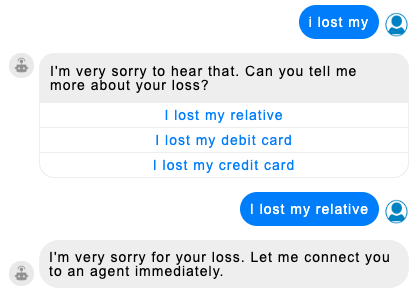
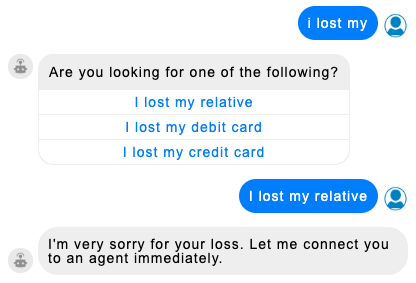
Enh - Disambiguation updates for 2nd round review

diff --git a/pages/documents/ConversationalAI/ConversationBuilder/Dialogs/dialogs_disambiguation.md b/pages/documents/ConversationalAI/ConversationBuilder/Dialogs/dialogs_disambiguation.md
@@ -36,7 +36,7 @@ If you create a disambiguation dialog, and if the bot matches the user's message
 
 A disambiguation dialog is triggered when the bot matches the message to *multiple intents*. Once the disambiguation dialog is triggered, it presents the consumer with the best intent matches.
 
-<img style="width:325px" src="img/ConvoBuilder/dialogs_disambiguation4.png">
+<img style="width:350px" src="img/ConvoBuilder/dialogs_disambiguation4.png">
 
 Once the user selects the correct intent, if that intent is associated with a User Says interaction in one of the bot's dialogs, that dialog's flow begins. Or, in the Disambiguation interaction, you can configure response match conditions to direct the flow as desired.
 
@@ -56,6 +56,11 @@ Once the user selects the correct intent, if that intent is associated with a Us
 5. Click **Save**.
 6. In the Disambiguation interaction, enter the question text to send to the consumer.
     <img style="width:800px" src="img/ConvoBuilder/dialogs_disambiguation5.png">
+
+    The intents will be dynamically populated, and their labels will be drawn from their intent display names as configured in [Intent Builder](intent-builder-overview.html).
+
+    <img style="width:600px" src="img/ConvoBuilder/dialogs_disambiguation6.png">
+
 7. Build out the Disambiguation dialog as desired.
     
     You can add any number of interactions to the dialog. For example, you might want to add a LivePerson Agent Escalation integration.
@@ -71,6 +76,10 @@ If you don't use a disambiguation dialog, here's how things work:
 - If the user's message matches multiple intents that have the same rank (several matches are VERY GOOD, or several are GOOD), the bot picks the one with the highest raw match score, and then it processes the associated dialog.
 
 - During matching, the bot considers only intents that evaluate to a VERY_GOOD or GOOD rank; intents that evaluate to FAIR_PLUS and FAIR are not considered.
+
+**What happens if I use a disambiguation dialog, but no intents at or above the specified threshold are matched?**
+
+When this happens, the fallback dialog is triggered is one exists. Otherwise, the default fallback message is sent to the consumer. For more on fallback, see [here](conversation-builder-dialogs-fallback-dialogs.html).
 
 **How many disambiguation dialogs can I create?**
 
